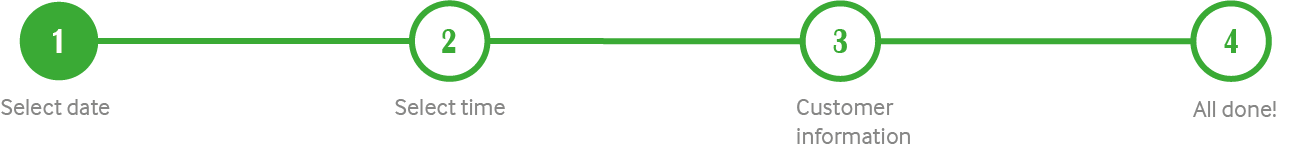
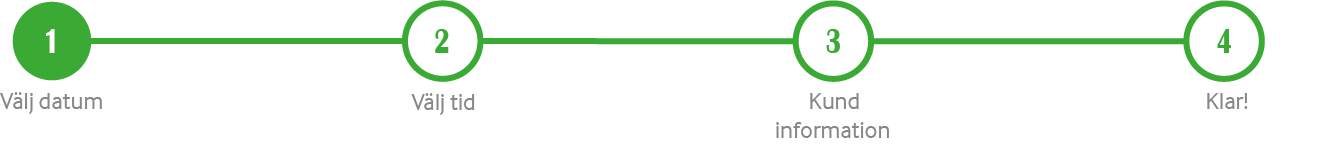
mobile with progressbar

diff --git a/front-end/src/components/BookingModals/BookingModalTwo.tsx b/front-end/src/components/BookingModals/BookingModalTwo.tsx
@@ -67,15 +67,18 @@ export default function BookingModalTwo() {
 
   return (
     <main className=" modal-wrapper">
-      <img src="../assets/ProgressBar2.png" alt="progressBar" className=" modal-title sm:w-full mt-16 mb-16"></img>
+      <div className="modal-title mb-10">
+        <img src="../assets/ProgressBar2.png" alt="progressBar" className="hidden sm:block" />
+        <img src="../assets/ProgressBar2Mobile.png" alt="progressBar" className=" sm:hidden" />
+      </div>
       <div className=" modal-content h-full gap-3 sm:flex-row row-start-1 row-end-4 ">
-        <h1 className="text-xl font-bold">Välj tid</h1>
+        <h1 className="hidden sm:block text-xl font-bold">Välj tid</h1>
         {seating1800Btn}
         {seating2100Btn}
       </div>
       <br />
       <button
-        className=" btn-red col-start-1 sm:col-start-3 row-start-4"
+        className=" btn-red col-start-1 sm:col-start-3 row-start-5"
         onClick={() => {
           dispatch(addBookingGuestAmount(0));
           dispatch(addBookingDate(""));
@@ -84,7 +87,7 @@ export default function BookingModalTwo() {
         Tillbaka
       </button>
       <button
-        className=" btn-green col-start-6 row-start-4 "
+        className=" btn-green col-start-6 row-start-5"
         onClick={() => {
           dispatch(addBookingTime(selectedTime));
         }}

diff --git a/front-end/src/App.css b/front-end/src/App.css
@@ -9,10 +9,10 @@
 
 @layer components {
   .btn-green {
-    @apply bg-green-500 text-white font-semibold rounded-sm shadow-md hover:bg-green-700 focus:outline-none focus:ring-2 focus:ring-green-400 focus:ring-opacity-75 w-24 h-12 mt-4;
+    @apply bg-green-500 text-white font-semibold rounded-sm shadow-md hover:bg-green-700 focus:outline-none focus:ring-2 focus:ring-green-400 focus:ring-opacity-75 w-28 h-12 mt-4;
   }
   .btn-red {
-    @apply bg-red-500 text-white font-semibold rounded-sm shadow-md hover:bg-red-700 focus:outline-none focus:ring-2 focus:ring-red-400 focus:ring-opacity-75 w-24 h-12 mt-4;
+    @apply bg-red-500 text-white font-semibold rounded-sm shadow-md hover:bg-red-700 focus:outline-none focus:ring-2 focus:ring-red-400 focus:ring-opacity-75 w-28 h-12 mt-4;
   }
   .modal-wrapper {
     @apply h-5/6 grid grid-cols-7 grid-rows-5 p-6 

diff --git a/front-end/src/components/BookingModals/BookingModalThree.tsx b/front-end/src/components/BookingModals/BookingModalThree.tsx
@@ -73,10 +73,12 @@ function BookingModalThree() {
 
   return (
     <main className=" modal-wrapper">
-      <img src="../assets/ProgressBar2.png" alt="progressBar" className=" modal-title sm:w-full mt-16 mb-16"></img>
-      
+      <div className="modal-title mb-10">
+        <img src="../assets/ProgressBar3.png" alt="progressBar" className="hidden sm:block" />
+        <img src="../assets/ProgressBar3Mobile.png" alt="progressBar" className=" sm:hidden" />
+      </div>
       <form action="" className=" modal-content gap-1 row-start-1 row-end-5">
-      <h1 className=" text-xl font-bold">Kundinformation</h1>
+      <h1 className="hidden sm:block text-xl font-bold">Kundinformation</h1>
         <div className="">
           <label htmlFor="name" className=" block">Namn</label>
           <input

diff --git a/front-end/src/components/BookingModals/BookingModalOne.tsx b/front-end/src/components/BookingModals/BookingModalOne.tsx
@@ -72,7 +72,10 @@ function BookingModalOne() {
 
   return (
     <main className=" modal-wrapper ">
-      <img src="../assets/ProgressBar1.png" alt="progressBar" className=" modal-title sm:w-full mt-16 mb-16"></img>
+      <div className="modal-title mb-10">
+        <img src="../assets/ProgressBar1.png" alt="progressBar" className="hidden sm:block" />
+        <img src="../assets/ProgressBar1Mobile.png" alt="progressBar" className=" sm:hidden" />
+      </div>
       <form
         action=""
         method="GET"
@@ -89,7 +92,7 @@ function BookingModalOne() {
         <GuestPicker />
       </form>
       <button
-        className=" btn-green col-end-7 row-start-4"
+        className=" btn-green col-end-7 row-start-5"
         onClick={checkSeatings}
       >
         Gå vidare

diff --git a/front-end/src/components/GuestPicker.tsx b/front-end/src/components/GuestPicker.tsx
@@ -16,7 +16,7 @@ function GuestPicker() {
   });
 
   return (
-    <div className=" h-2/6 modal-content">
+    <div className=" h-3/6 modal-content">
       <label htmlFor="guestAmount" className=" text-xl font-bold">
         Antal gäster
       </label>

diff --git a/front-end/src/components/DatePicker.tsx b/front-end/src/components/DatePicker.tsx
@@ -12,7 +12,7 @@ function DatePicker() {
   }, [date]);
 
   return (
-    <div className=" h-4/6 modal-content ">
+    <div className=" h-5/6 modal-content ">
       <label htmlFor="date" className=" text-xl font-bold">
         Datum
       </label>
